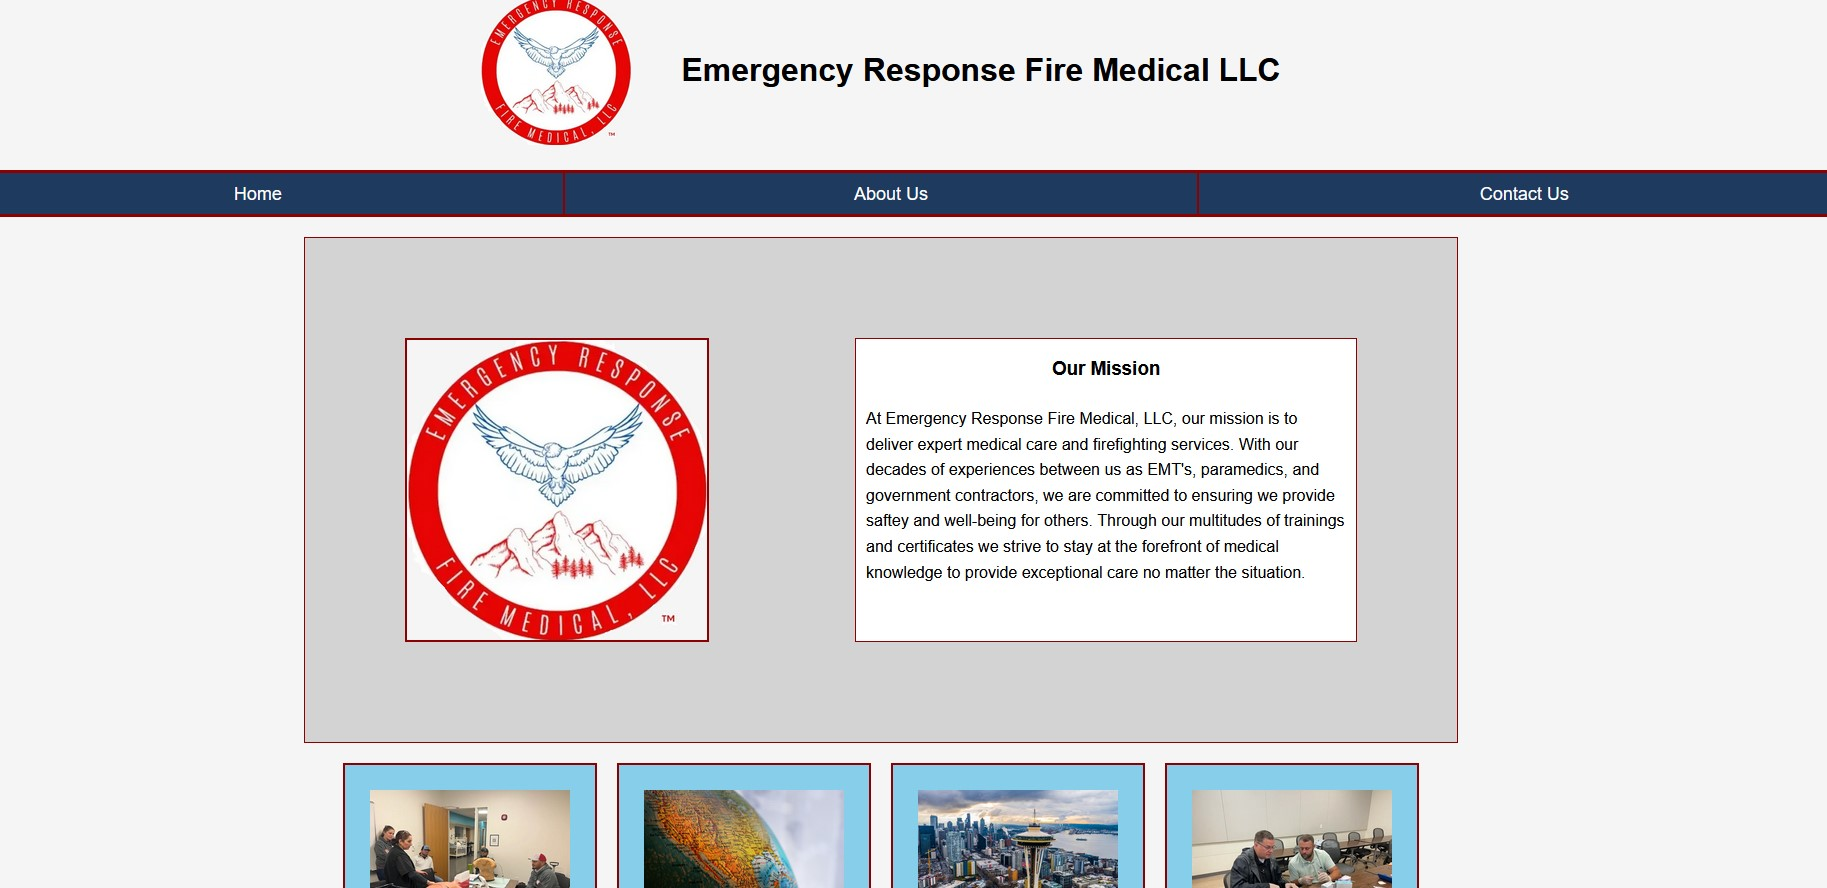
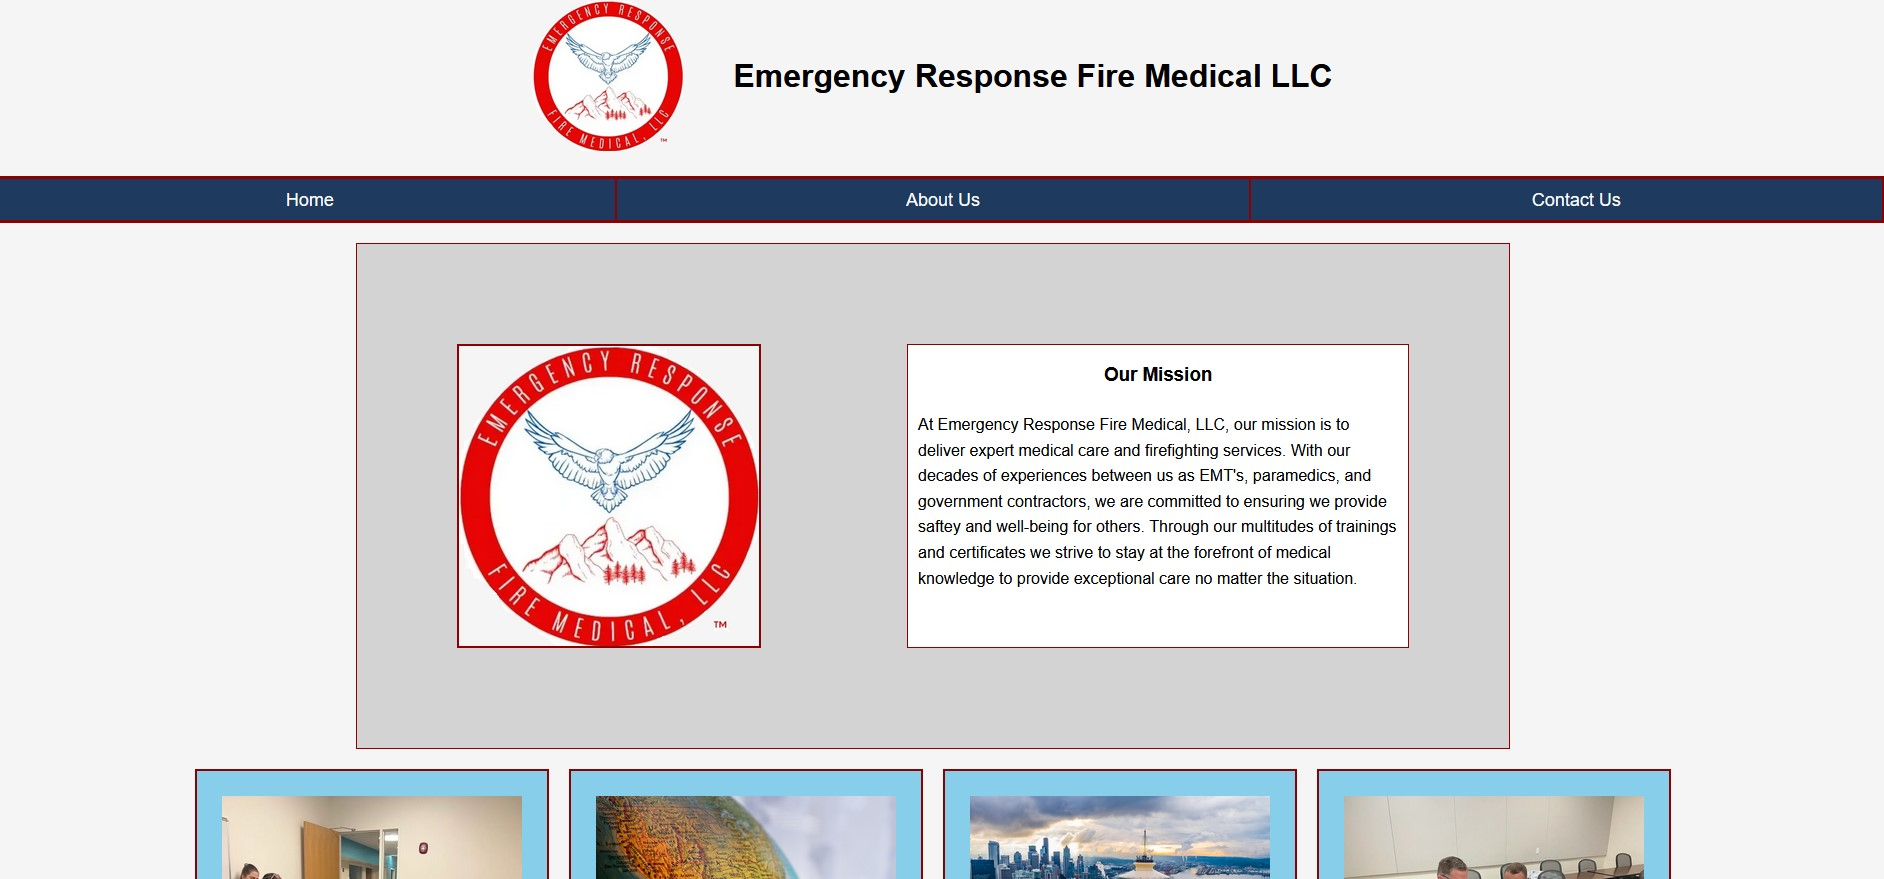
added project with json and reccommended changes

Changed region(s): [[0.0, 0.0, 1.0, 1.0], [0.468, 0.3686, 0.7488, 0.7372], [0.2184, 0.3686, 0.4056, 0.7372]]

diff --git a/projects/part6/script.js b/projects/part6/script.js
@@ -1,16 +1,70 @@
-/*Toggle the navagation on smaller screens*/
-/*Was not able to complete it this week, but will have it next week*/
-const getLocations = async() => {
-    const url = "./locations.json";
-
-    try {
-        const response = await fetch(url);
-        console.log(response);
-        const data = await response.json();
-        console.log(data);
-        return data;
-    } catch(error){
-        console.log(error);
-    }
+//Was not able to get the seperate json file working so, I added it to the script
+const locations = [
+    {
+        "state": "Washington Deployment",
+        "city": "Durkee",
+        "f-or-e": "Fire",
+        "date": "",
+        "people": ["Jason"],
+        "description": "Our team was task with going to Washington state to put out several fires in the local area. We were able to accomplish this mission and were successful in putting out the fire that was widespread. While there we were able to provide critical support and medical care to the local community.",
+        
+        "images": [
+            "washington-fire-gallery.jpg",
+            "",
+            ""
+        ]
+    },
+    //Working to be able to have multiple gallery entries work and maybe the map
+    /*{
+        "state": "Idaho",
+        "city": "Limepoint",
+        "f-or-e": "Fire",
+        "date":"August 15th 2024",
+        "people": ["Junior", "Adam"],
+        "description": "Assisted with the removal of trees that feel during the fire. Also, helped reduced the spread of the fire to other parts of the National Forest.",
+        
+        "images": [
+            "#40231D",
+            "#592202",
+            "#8C4B26"
+        ]
+    }*/
+    
+]
+// gets the loction informaiton
+const getLocations = async () => {
+        locations.forEach(location => {
+            showLocation(location);
+        });
 };
+
+
+const showLocation = (state) => {
+    //creates different aspects used
+    const h3 = document.createElement("h3");
+    const p = document.createElement("p");
+    const img = document.createElement("img");
+    //console.log(state);
+    
+    const wash = document.getElementById("washington");
+    //Adds title and description of what occured
+    h3.innerHTML = state.state;
+    wash.append(h3);
+    //console.log(state.state)
+
+    p.innerHTML = state.description;
+    wash.append(p);
+
+    //Adds the image will have multiple for slideshow currently just one
+    img.src = "images/"+state.images[0];
+    img.alt = "Gallery of fire that occured in washington"
+    img.style.width = "300" + "px";
+    img.style.height = "400" + "px";
+
+    //console.log(state.images[0]);
+    document.getElementById("gal").append(img);
+    
+    //document.getElementById("washington").append(p);
+}
+
 getLocations();

diff --git a/projects/part6/gallery.html b/projects/part6/gallery.html
@@ -23,16 +23,12 @@
             </ul>
         </nav>
         <div id="gallery-section">
-            <div class="gallery-info">
+            <div class="gallery-info" id="gal">
                 <!--Images are suppose to be a gallery in this section-->
-                <img src="images/washington-fire-gallery.jpg" alt="gallery of fire that occured in washington" width="300" height="400">
+                <!--<img id="wash-img" src="images/washington-fire-gallery.jpg" alt="gallery of fire that occured in washington" width="300" height="400">-->
                 <!--Boxes for deployment infromation that complement the pictures-->
-                <div id="washington">
-                    <h3>Washington Deployment</h3>
-                    <p>Our team was task with going to Washington state to put out several fires in the local area. We were able
-                        to accomplish this mission and were successful in putting out the fire that was widespread. While there we 
-                        were able to provide critical support and medical care to the local community.</p>
-                </div>
+
+                <img src="images/arizona fire.JPG" alt="Gallery of arizonia fire contract" width="300" height="400">
                 <div id="arizona">
                     <h3>Arizona Deployment</h3>
                     <p>During the hot summer time fires were rampid in Arizona. We were successful in containing multiple fires. 
@@ -40,7 +36,9 @@
                         effectivly. Overall, this allowed us to ensure the saftey and well-being of the community that the fire hit.
                     </p>
                 </div>
-                <img src="images/arizona fire.JPG" alt="Gallery of arizonia fire contract" width="300" height="400">
+                <!--Added with json along with img-->
+                <div id="washington"></div>
+                
             </div>
         </div>
     <script src="script.js"></script>

diff --git a/projects/part6/training.html b/projects/part6/training.html
@@ -44,7 +44,7 @@
                         a small team as it can help develp team-work and guidance for some scnarios that may occur when on the job.
                     </p>
                 </div>
-                <div id="third">
+                <!--<div id="third">
                     <h3>Third training</h3>
                     <img src="">
                     <a href="#">More info</a>
@@ -88,7 +88,7 @@
                         use in the website. Going to the street with the hotel 4 stars and going to nice and was not nice with breakfeat and valuet
                         parking only.
                     </p>
-                </div>
+                </div>-->
                 <!--Left this out to try to improve it-->
                 <!--List of each training/certificate along with a description of when it was recieved and what it is-->
                 <!--<nav id="train">

diff --git a/index.html b/index.html
@@ -103,9 +103,9 @@
                     TA's and the professor.</p></a></div>
 
             <div><strong><p>Project part 6</p></strong><a href="projects/part6/index.html">
-                <img src="" alt="Image of the home page of the updated project">
+                <img src="projects/part6/images/main-page.jpg" alt="Image of the home page of the updated project">
                 <p>Part 6 of the updated project includes a json and javascript that is added onto the website to add something
-                    more visuals and making it more appealing/professional.</p></a></div>
+                    more visuals and making it more appealing/professional. Also adds some feedback given from professor and TA's.</p></a></div>
             
         </div>
         <!--Footer contains copyright-->

diff --git a/projects/part6/styles.css b/projects/part6/styles.css
@@ -261,8 +261,6 @@ body {
     margin-left:auto;
     margin-right:auto;
     display:flex;
-    flex-wrap: wrap;
-    flex-direction: row;
     gap:20px;
     align-items: center;
 }
@@ -322,21 +320,16 @@ body {
 #gallery-section {
     background-color: var(--gallery-background-color);
     padding:50px;
-    display:flex;
-    flex-direction: column;
     border: 2px solid var(--gallery-border-color);
     margin-left:auto;
     margin-right:auto;
     margin-top:10px;
-    width:50%;
-    gap:20px;
+    width:90%;
 }
 .gallery-info {
     display:flex;
-    align-items: center;
-    gap:200px;
+    gap:150px;
     flex-wrap: wrap;
-    margin: 50px 50px;
 }
 .gallery-info img {
     border:2px solid var(--gallery-border-color);
